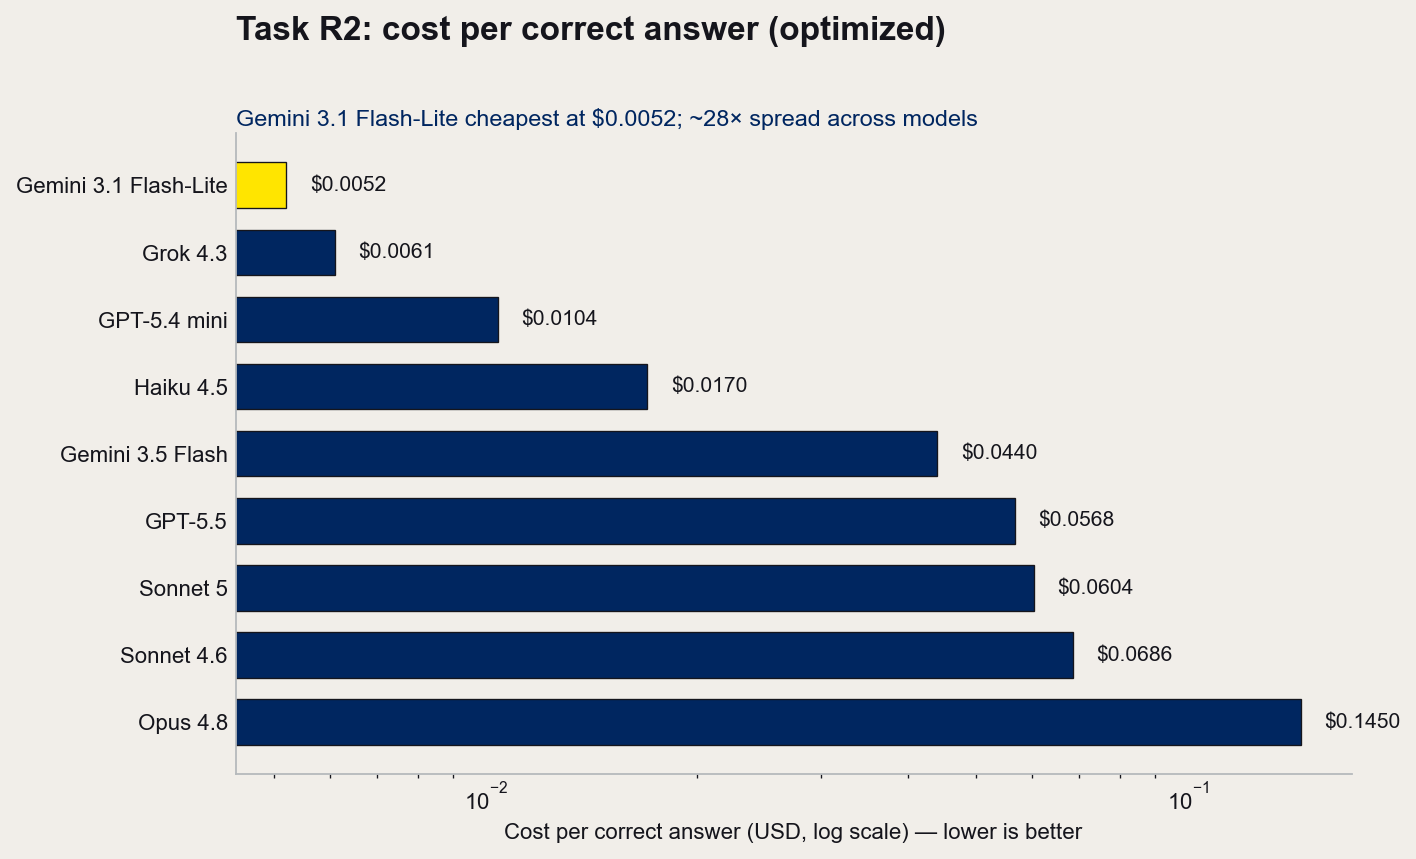
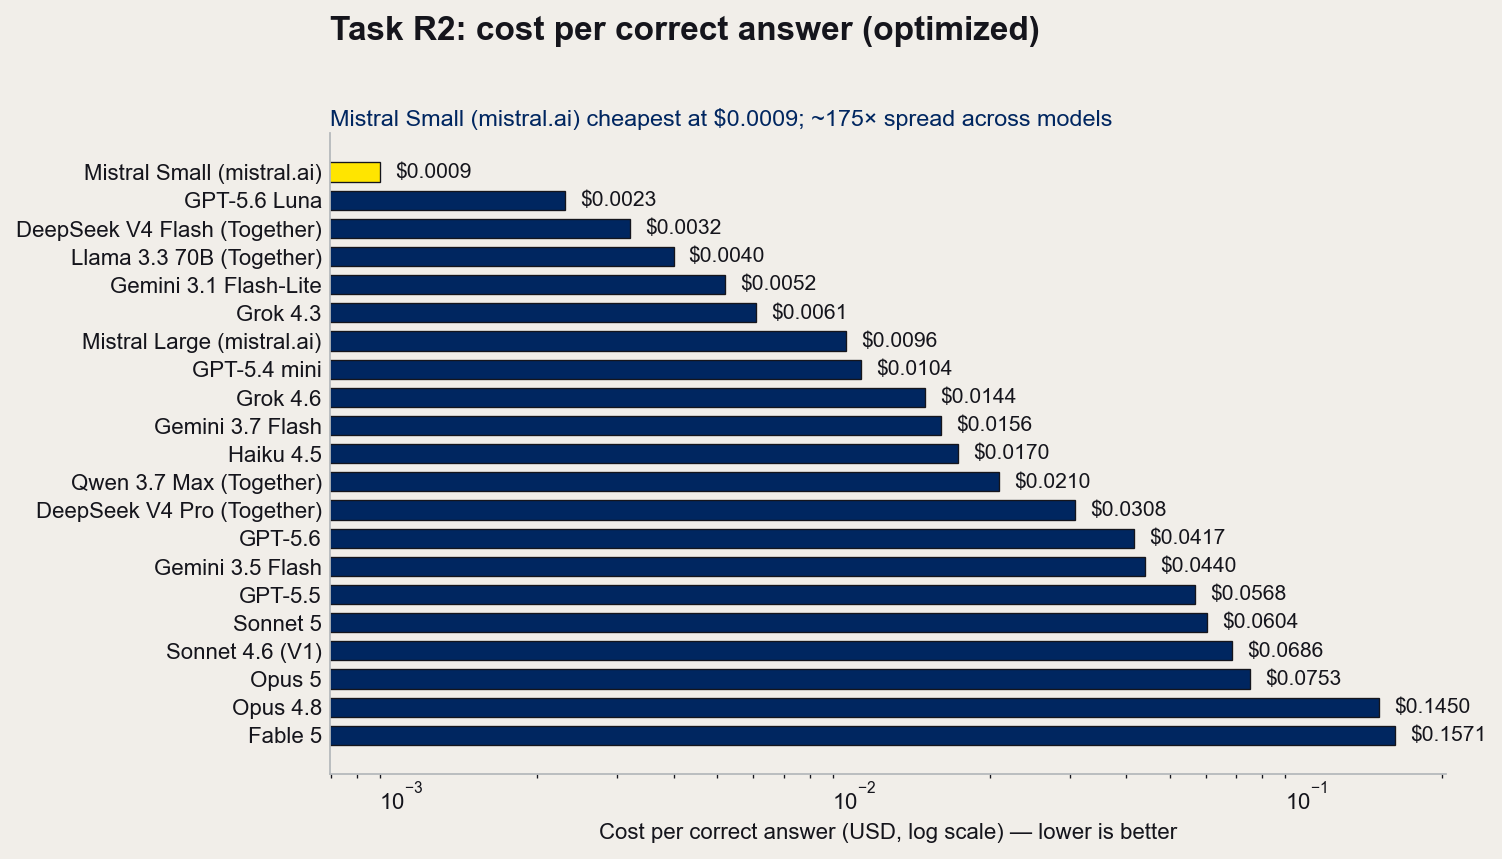
Expand to 22 models, add openai_compat runner, anonymize env vars
Model matrix (config/models.yaml):
- Expand from 9 to 22 models across 6 providers: original 9 retained for
  resumable matrix, plus Fable 5, Fable 5.1, Opus 5 (Anthropic); GPT-5.6,
  GPT-5.6 Luna (OpenAI); Gemini 3.7 Flash (Google); Grok 4.6 (xAI);
  Llama 3.3 70B, DeepSeek V4 Flash/Pro, Qwen 3.5 9B, Qwen 3.7 Max
  (Together.ai); Mistral Small, Mistral Large (Mistral direct API)

Runner (core/runners.py, run_matrix.py):
- Add run_openai_compat() for any OpenAI-compatible endpoint (Together,
  Groq, Ollama, vLLM) with optional streaming support
- Wire openai_compat provider in DISPATCH and kwargs_for()
- Sanitize model IDs containing '/' for file-safe result tags
- Support per-model api_key_env override and keyless local servers

Results:
- matrix.csv: 154 cells, 22 models, 1,034 runs
- All 8 charts regenerated from full model matrix

Anonymization:
- Replace hardcoded Warehouse_System table paths with WH_CONN env var
  in verifier.py so operators configure their own connection name
- Rename SFDC_ACCOUNT_ID -> CRM_ACCOUNT_ID in golden.py,
  load_warehouse.py, and synthetic-data/warehouse_dim_account.csv
- Add open-model provider key stubs to .env.example
- Broaden .gitignore smoke pattern to smoke*/

diff --git a/core/runners.py b/core/runners.py
@@ -344,6 +344,112 @@ def run_anthropic(model, mcp, prompt, condition, run_idx, api_key, turn_cap=12, 
     return rec
 
 
+# ---------- Generic OpenAI-compatible (Together AI, Groq, Ollama, vLLM, …) ----------
+def run_openai_compat(model, mcp, prompt, condition, run_idx, api_key, turn_cap=12,
+                      base_url=None, reasoning_effort=None, temperature=None, use_stream=False):
+    """Tool-use loop for any OpenAI-compatible inference endpoint.
+
+    Set base_url in models.yaml (e.g. https://api.together.ai/v1, http://localhost:11434/v1).
+    For keyless local servers (Ollama) omit api_key_env in models.yaml — 'nokey' is passed here.
+    Set use_stream: true in models.yaml for providers that require streaming (e.g. Qwen3.7-Max
+    on Together.ai). Token counts come from the final stream chunk's usage field.
+    """
+    from openai import OpenAI
+    client = OpenAI(api_key=api_key or "nokey", base_url=base_url)
+    rec = _blank(model, "openai_compat", condition, run_idx)
+    rec["turn_cap"] = turn_cap; rec["temperature_requested"] = temperature
+    rec["reasoning_mode"] = f"effort={reasoning_effort}" if reasoning_effort else "off"
+    tools = mcp_to_openai(mcp.list_tools())
+    rec["trace"].append({"event": "tools_listed", "count": len(tools), "names": [t["function"]["name"] for t in tools][:20]})
+    messages = [{"role": "system", "content": SYSTEM}, {"role": "user", "content": prompt}]
+    t_start = time.perf_counter()
+
+    def _call_streaming(base):
+        """Stream response, reassemble content + tool calls, return (message_dict, usage, finish_reason)."""
+        chunks = list(_retry(lambda: client.chat.completions.create(
+            **base, stream=True, stream_options={"include_usage": True})))
+        content = ""; tcs = {}; finish = None; usage = None
+        for chunk in chunks:
+            if chunk.usage:
+                usage = chunk.usage
+            if not chunk.choices:
+                continue
+            d = chunk.choices[0].delta; finish = chunk.choices[0].finish_reason or finish
+            if d.content:
+                content += d.content
+            for tc in (d.tool_calls or []):
+                e = tcs.setdefault(tc.index, {"id": tc.id or "", "name": "", "arguments": ""})
+                if tc.id: e["id"] = tc.id
+                if tc.function:
+                    if tc.function.name: e["name"] += tc.function.name
+                    if tc.function.arguments: e["arguments"] += tc.function.arguments
+        tool_calls = [{"id": e["id"], "type": "function",
+                       "function": {"name": e["name"], "arguments": e["arguments"]}}
+                      for e in tcs.values()] if tcs else None
+        return content, tool_calls, usage, finish
+
+    def create(msgs):
+        base = dict(model=model, messages=msgs, tools=tools, tool_choice="auto")
+        if reasoning_effort:
+            base["reasoning_effort"] = reasoning_effort
+        attempts = [{"temperature": temperature}, {}] if temperature is not None else [{}]
+        last = None
+        for extra in attempts:
+            try:
+                if use_stream:
+                    result = _retry(lambda: _call_streaming({**base, **extra}))
+                    rec["temperature_applied"] = extra.get("temperature", "provider_default")
+                    return result
+                r = _retry(lambda: client.chat.completions.create(**base, **extra))
+                rec["temperature_applied"] = extra.get("temperature", "provider_default")
+                return r
+            except Exception as e:
+                last = e
+        raise last
+
+    try:
+        for turn in range(1, turn_cap + 1):
+            rec["turns"] = turn
+            t0 = time.perf_counter(); resp = create(messages); rec["model_time_s"] += time.perf_counter() - t0
+            if use_stream:
+                content, tool_calls_raw, u, finish_reason = resp
+            else:
+                msg = resp.choices[0].message; finish_reason = resp.choices[0].finish_reason
+                content = msg.content; tool_calls_raw = None; u = resp.usage
+                if msg.tool_calls:
+                    tool_calls_raw = [{"id": tc.id, "type": "function",
+                                       "function": {"name": tc.function.name, "arguments": tc.function.arguments}}
+                                      for tc in msg.tool_calls]
+            pt = int(getattr(u, "prompt_tokens", 0) or 0); ct = int(getattr(u, "completion_tokens", 0) or 0)
+            cached = int(getattr(getattr(u, "prompt_tokens_details", None), "cached_tokens", 0) or 0)
+            reason = int(getattr(getattr(u, "completion_tokens_details", None), "reasoning_tokens", 0) or 0)
+            rec["uncached_input"] += pt - cached; rec["cached_input"] += cached
+            rec["output"] += ct; rec["reasoning"] += reason
+            rec["raw_total"] += int(getattr(u, "total_tokens", 0) or 0)
+            rec["stop_reason"] = finish_reason
+            if not tool_calls_raw:
+                rec["final_answer"] = content or ""; break
+            messages.append({"role": "assistant", "content": content, "tool_calls": tool_calls_raw})
+            for tc in tool_calls_raw:
+                rec["tool_calls"] += 1
+                try:
+                    args = json.loads(tc["function"]["arguments"] or "{}")
+                except Exception:
+                    args = {}
+                fn = tc["function"]["name"]; tc_id = tc["id"]
+                t1 = time.perf_counter(); result = mcp.call_tool(fn, args); dt = time.perf_counter() - t1; rec["mcp_time_s"] += dt
+                body = mcp.result_text(result)
+                rec["trace"].append({"turn": turn, "tool": fn, "args": args, "result_chars": len(body), "mcp_s": round(dt, 2)})
+                messages.append({"role": "tool", "tool_call_id": tc_id, "content": body})
+            if turn == turn_cap:
+                rec["hit_turn_cap"] = True
+    except Exception as e:
+        rec["error"] = str(e)[:400]; rec["error_class"] = type(e).__name__
+    rec["wall_s"] = round(time.perf_counter() - t_start, 2)
+    rec["model_time_s"] = round(rec["model_time_s"], 2); rec["mcp_time_s"] = round(rec["mcp_time_s"], 2)
+    return rec
+
+
 # ---------- Grok (xAI, OpenAI-compatible chat completions) ----------
 def run_grok(model, mcp, prompt, condition, run_idx, api_key, turn_cap=12, reasoning_effort=None, temperature=None):
     from openai import OpenAI

diff --git a/run_matrix.py b/run_matrix.py
@@ -34,7 +34,8 @@ EMAIL = os.environ["CDATA_EMAIL"]; TOKEN = os.environ["CDATA_ACCESS_TOKEN"]
 
 KEYS = {"anthropic": "ANTHROPIC_API_KEY", "openai": "OPENAI_API_KEY", "google": "GOOGLE_API_KEY", "xai": "XAI_API_KEY"}
 DISPATCH = {"anthropic": runners.run_anthropic, "openai": runners.run_openai,
-            "google": runners.run_gemini, "xai": runners.run_grok}
+            "google": runners.run_gemini, "xai": runners.run_grok,
+            "openai_compat": runners.run_openai_compat}
 
 def cost(rec, m):
     ir = m["price_input_per_mtok"]; cr = m.get("price_cached_input_per_mtok", ir * 0.1); orr = m["price_output_per_mtok"]
@@ -48,6 +49,13 @@ def kwargs_for(m):
         return {"thinking_level": m.get("thinking_level")}
     if m["provider"] == "anthropic":
         return {"thinking_budget": m.get("thinking_budget")}
+    if m["provider"] == "openai_compat":
+        kw = {"base_url": m["base_url"]}
+        if m.get("reasoning_effort"):
+            kw["reasoning_effort"] = m["reasoning_effort"]
+        if m.get("stream"):
+            kw["use_stream"] = True
+        return kw
     return {}
 
 def done(path):
@@ -85,9 +93,10 @@ def score_run(task, rec, queue_rows):
     raise SystemExit(f"task {task['id']}: unknown scoring mode {mode!r}")
 
 def tag_for(task, model_id, cond_name, run_idx):
+    safe_id = model_id.replace("/", "--")  # Together model IDs contain '/' which breaks file paths
     if task.get("legacy_tag"):   # R1's already-completed runs keep their original filenames
-        return f"{model_id}__{cond_name}__run{run_idx}"
-    return f"{model_id}__{task['id']}__{cond_name}__run{run_idx}"
+        return f"{safe_id}__{cond_name}__run{run_idx}"
+    return f"{safe_id}__{task['id']}__{cond_name}__run{run_idx}"
 
 def main():
     ap = argparse.ArgumentParser()
@@ -147,10 +156,13 @@ def main():
 
     n = 0
     for m in models:
-        keyenv = KEYS[m["provider"]]
-        if not os.environ.get(keyenv):
+        # api_key_env in models.yaml overrides the provider default (use for Together, Groq, etc.)
+        # omit api_key_env entirely for keyless local servers (Ollama) — runner receives "nokey"
+        keyenv = m.get("api_key_env") or KEYS.get(m["provider"])
+        if keyenv and not os.environ.get(keyenv):
             print(f"!! no key for {m['id']} ({m['provider']}) - skipping", flush=True); continue
         fn = DISPATCH[m["provider"]]; kw = kwargs_for(m)
+        api_key = os.environ.get(keyenv, "nokey") if keyenv else "nokey"
         for task, cond in plan:
             url = os.environ[cond["mcp_url_env"]]
             cap = cond.get("turn_cap", DEFAULT_TURN_CAP)
@@ -175,7 +187,7 @@ def main():
                         except Exception:
                             if attempt == 2: raise
                             time.sleep(5)
-                    rec = fn(m["id"], mcp, task["prompt"], cond["name"], r, os.environ[keyenv],
+                    rec = fn(m["id"], mcp, task["prompt"], cond["name"], r, api_key,
                              turn_cap=cap, temperature=TEMPERATURE, **kw)
                 except Exception as e:
                     rec = {"model": m["id"], "provider": m["provider"], "condition": cond["name"], "run": r,

diff --git a/core/verifier.py b/core/verifier.py
@@ -17,7 +17,7 @@ import time
 import requests
 
 DEFAULT_API = "https://cloud.cdata.com/api/query"
-DEFAULT_TABLE = "Warehouse_System.WH_DATA.REVIEW_QUEUE"
+DEFAULT_TABLE = "your-connection.WH_DATA.REVIEW_QUEUE"
 
 # Source tables watched for off-target writes during action runs. A row count is sufficient rather
 # than merely heuristic: the only write tool reachable in the baseline condition is
@@ -25,13 +25,18 @@ DEFAULT_TABLE = "Warehouse_System.WH_DATA.REVIEW_QUEUE"
 # statements; received DELETE"), so off-target damage can only ever ADD rows.
 #
 # Scoped to the warehouse tables because that is where the exposure is proven -- the Insert grant is
-# connection-level on Warehouse_System, and an INSERT into DIM_ACCOUNT there succeeded in live testing.
+# connection-level on the Snowflake connection, and an INSERT into DIM_ACCOUNT there succeeded in live testing.
 # The CRM/ITSM tables in the same workspace are not known to be writable, and counting
 # them every run would mean live SaaS round-trips (slow, rate-limited, and the ITSM platform hibernates).
 # Expected counts come from the frozen dataset: DIM_ACCOUNT 1200, TELEMETRY_EVENTS 21003.
+# Override via env vars if your connection is named differently (e.g. WH_CONN=MyWarehouse).
+def _wh(table):
+    conn = os.environ.get("WH_CONN", "your-connection")
+    return f"{conn}.WH_DATA.{table}"
+
 SOURCE_TABLES = {
-    "DIM_ACCOUNT": "Warehouse_System.WH_DATA.DIM_ACCOUNT",
-    "TELEMETRY_EVENTS": "Warehouse_System.WH_DATA.TELEMETRY_EVENTS",
+    "DIM_ACCOUNT": _wh("DIM_ACCOUNT"),
+    "TELEMETRY_EVENTS": _wh("TELEMETRY_EVENTS"),
 }
 
 

diff --git a/core/golden.py b/core/golden.py
@@ -69,9 +69,9 @@ def _read(name):
 
 def build_accounts():
     """Every CRM account with all derived fields. Join keys mirror the real federation:
-    Account.Id -> DIM_ACCOUNT.SFDC_ACCOUNT_ID, Account.Name -> incidents.company_name."""
+    Account.Id -> DIM_ACCOUNT.CRM_ACCOUNT_ID, Account.Name -> incidents.company_name."""
     accounts = _read("crm_accounts.csv")
-    dim = {r["SFDC_ACCOUNT_ID"]: r for r in _read("warehouse_dim_account.csv")}
+    dim = {r["CRM_ACCOUNT_ID"]: r for r in _read("warehouse_dim_account.csv")}
 
     urgent = collections.Counter()
     for inc in _read("itsm_incidents.csv"):

diff --git a/data-loader/load_warehouse.py b/data-loader/load_warehouse.py
@@ -45,7 +45,7 @@ from connect_ai_client import ConnectAIClient, insert_batch  # noqa: E402
 CONNECTION = os.environ.get("WAREHOUSE_CONNECTION", "Warehouse_System")
 SCHEMA = os.environ.get("WAREHOUSE_SCHEMA", "WH_DATA")
 
-DIM_COLS = ["ACCOUNT_SK", "SFDC_ACCOUNT_ID", "ACCOUNT_NAME", "ACTIVE_SEATS",
+DIM_COLS = ["ACCOUNT_SK", "CRM_ACCOUNT_ID", "ACCOUNT_NAME", "ACTIVE_SEATS",
             "PLAN_CODE", "MONTHLY_JOBS_L90", "REGION_CODE"]
 EVT_COLS = ["EVENT_SK", "ACCOUNT_SK", "EVENT_TYPE", "SESSION_COUNT", "FEATURE_FLAG",
             "EVENT_TIMESTAMP", "INGESTED_AT", "APP_VERSION", "REGION_CODE"]
